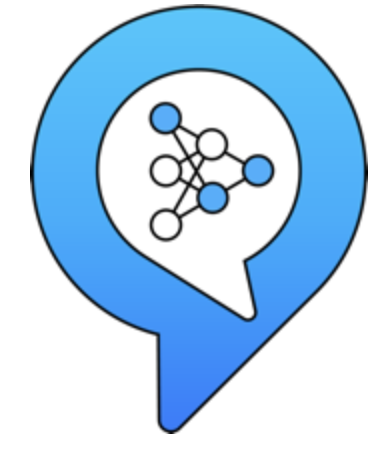
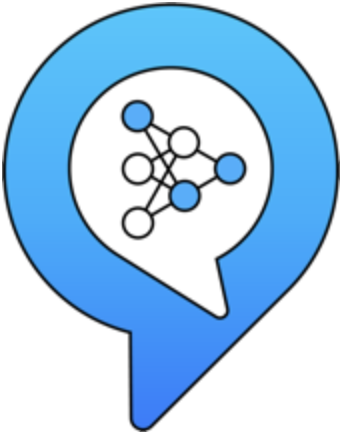
Highlights: drop white image plates; cut backgrounds from thumbnails
- Remove the white background, padding and border from highlight images
- Make the ConvAI, RL+LLM, RL4RealLife and NeurIPS panel images transparent PNGs
- Recolor the RL4RealLife diagram's black strokes to gray so they read on the dark theme
- YouTube thumbnails use the letterbox-free 16:9 variant and fill their box

Changed region(s): [[0.0, 0.0, 0.9942, 1.0], [0.614, 0.1797, 0.8187, 0.629], [0.4971, 0.1498, 0.6433, 0.1797]]

diff --git a/index.html b/index.html
@@ -48,7 +48,7 @@
   <link rel="preconnect" href="https://fonts.googleapis.com">
   <link rel="preconnect" href="https://fonts.gstatic.com" crossorigin>
   <link href="https://fonts.googleapis.com/css2?family=Fraunces:opsz,wght@9..144,600;9..144,700&family=Space+Grotesk:wght@500;600;700&family=Inter:wght@400;500;600;700&display=swap" rel="stylesheet">
-  <link rel="stylesheet" href="assets/style.css?v=55">
+  <link rel="stylesheet" href="assets/style.css?v=56">
   <!-- Google tag (gtag.js) -->
   <script async src="https://www.googletagmanager.com/gtag/js?id=G-N1V1ZB8K1T"></script>
   <script>
@@ -144,7 +144,7 @@
       <li>
         <div class="hl-year">2026</div>
         <a class="hl-card" href="https://alborz-geramifard.com/neurips2026-panel/" target="_blank" rel="noopener">
-          <img src="assets/img/hl-neurips2026-panel.jpg" alt="">
+          <img src="assets/img/hl-neurips2026-panel.png" alt="">
           <div><div class="meta">NeurIPS 2026 · Expo panel</div><h3>Agents in Production: Evals, Harnesses, and the Reinvention of Recommendation</h3></div>
         </a>
       </li>
@@ -179,7 +179,7 @@
       <li>
         <div class="hl-year">2018</div>
         <a class="hl-card" href="https://www.youtube.com/watch?v=jpmZp3eX-wI" target="_blank" rel="noopener">
-          <img src="https://img.youtube.com/vi/jpmZp3eX-wI/hqdefault.jpg" alt="" loading="lazy">
+          <img class="photo" src="https://img.youtube.com/vi/jpmZp3eX-wI/mqdefault.jpg" alt="" loading="lazy">
           <div><div class="meta">Amazon · Public release · Video</div><h3>An Introduction to Markov Decision Processes and Reinforcement Learning</h3></div>
         </a>
       </li>
@@ -193,7 +193,7 @@
       <li>
         <div class="hl-year">2017</div>
         <a class="hl-card" href="https://www.youtube.com/watch?v=ZZxwf6jSy2k" target="_blank" rel="noopener">
-          <img src="https://img.youtube.com/vi/ZZxwf6jSy2k/hqdefault.jpg" alt="" loading="lazy">
+          <img class="photo" src="https://img.youtube.com/vi/ZZxwf6jSy2k/mqdefault.jpg" alt="" loading="lazy">
           <div><div class="meta">Amazon · Public release · Video</div><h3>Alexa MovieBot</h3></div>
         </a>
       </li>

diff --git a/assets/style.css b/assets/style.css
@@ -282,7 +282,8 @@ footer .wrap { display: flex; justify-content: center; }
   background: var(--bg-elev); border: 1px solid var(--line); border-radius: var(--radius); padding: 14px; transition: transform .2s ease, box-shadow .2s ease, border-color .2s ease;
 }
 a.hl-card:hover { transform: translateX(4px); box-shadow: var(--shadow); border-color: color-mix(in srgb, var(--accent) 40%, var(--line)); text-decoration: none; }
-.hl-card img { width: 112px; height: 72px; object-fit: contain; border-radius: 8px; background: #fff; padding: 4px; border: 1px solid var(--line); }
+.hl-card img { width: 112px; height: 72px; object-fit: contain; border-radius: 8px; }
+.hl-card img.photo { object-fit: cover; }
 .hl-card .meta { font-size: .74rem; color: var(--accent-2); font-weight: 700; letter-spacing: .06em; text-transform: uppercase; margin-bottom: 4px; }
 .hl-card h3 { font-size: 1.08rem; line-height: 1.35; }
 .hl-card p { margin: 6px 0 0; color: var(--muted); font-size: .92rem; }

diff --git a/code.html b/code.html
@@ -24,7 +24,7 @@
   <link rel="preconnect" href="https://fonts.googleapis.com">
   <link rel="preconnect" href="https://fonts.gstatic.com" crossorigin>
   <link href="https://fonts.googleapis.com/css2?family=Fraunces:opsz,wght@9..144,600;9..144,700&family=Space+Grotesk:wght@500;600;700&family=Inter:wght@400;500;600;700&display=swap" rel="stylesheet">
-  <link rel="stylesheet" href="assets/style.css?v=55">
+  <link rel="stylesheet" href="assets/style.css?v=56">
   <!-- Google tag (gtag.js) -->
   <script async src="https://www.googletagmanager.com/gtag/js?id=G-N1V1ZB8K1T"></script>
   <script>

diff --git a/notes.html b/notes.html
@@ -24,7 +24,7 @@
   <link rel="preconnect" href="https://fonts.googleapis.com">
   <link rel="preconnect" href="https://fonts.gstatic.com" crossorigin>
   <link href="https://fonts.googleapis.com/css2?family=Fraunces:opsz,wght@9..144,600;9..144,700&family=Space+Grotesk:wght@500;600;700&family=Inter:wght@400;500;600;700&display=swap" rel="stylesheet">
-  <link rel="stylesheet" href="assets/style.css?v=55">
+  <link rel="stylesheet" href="assets/style.css?v=56">
   <!-- Google tag (gtag.js) -->
   <script async src="https://www.googletagmanager.com/gtag/js?id=G-N1V1ZB8K1T"></script>
   <script>

diff --git a/publications.html b/publications.html
@@ -24,7 +24,7 @@
   <link rel="preconnect" href="https://fonts.googleapis.com">
   <link rel="preconnect" href="https://fonts.gstatic.com" crossorigin>
   <link href="https://fonts.googleapis.com/css2?family=Fraunces:opsz,wght@9..144,600;9..144,700&family=Space+Grotesk:wght@500;600;700&family=Inter:wght@400;500;600;700&display=swap" rel="stylesheet">
-  <link rel="stylesheet" href="assets/style.css?v=55">
+  <link rel="stylesheet" href="assets/style.css?v=56">
   <!-- Google tag (gtag.js) -->
   <script async src="https://www.googletagmanager.com/gtag/js?id=G-N1V1ZB8K1T"></script>
   <script>
